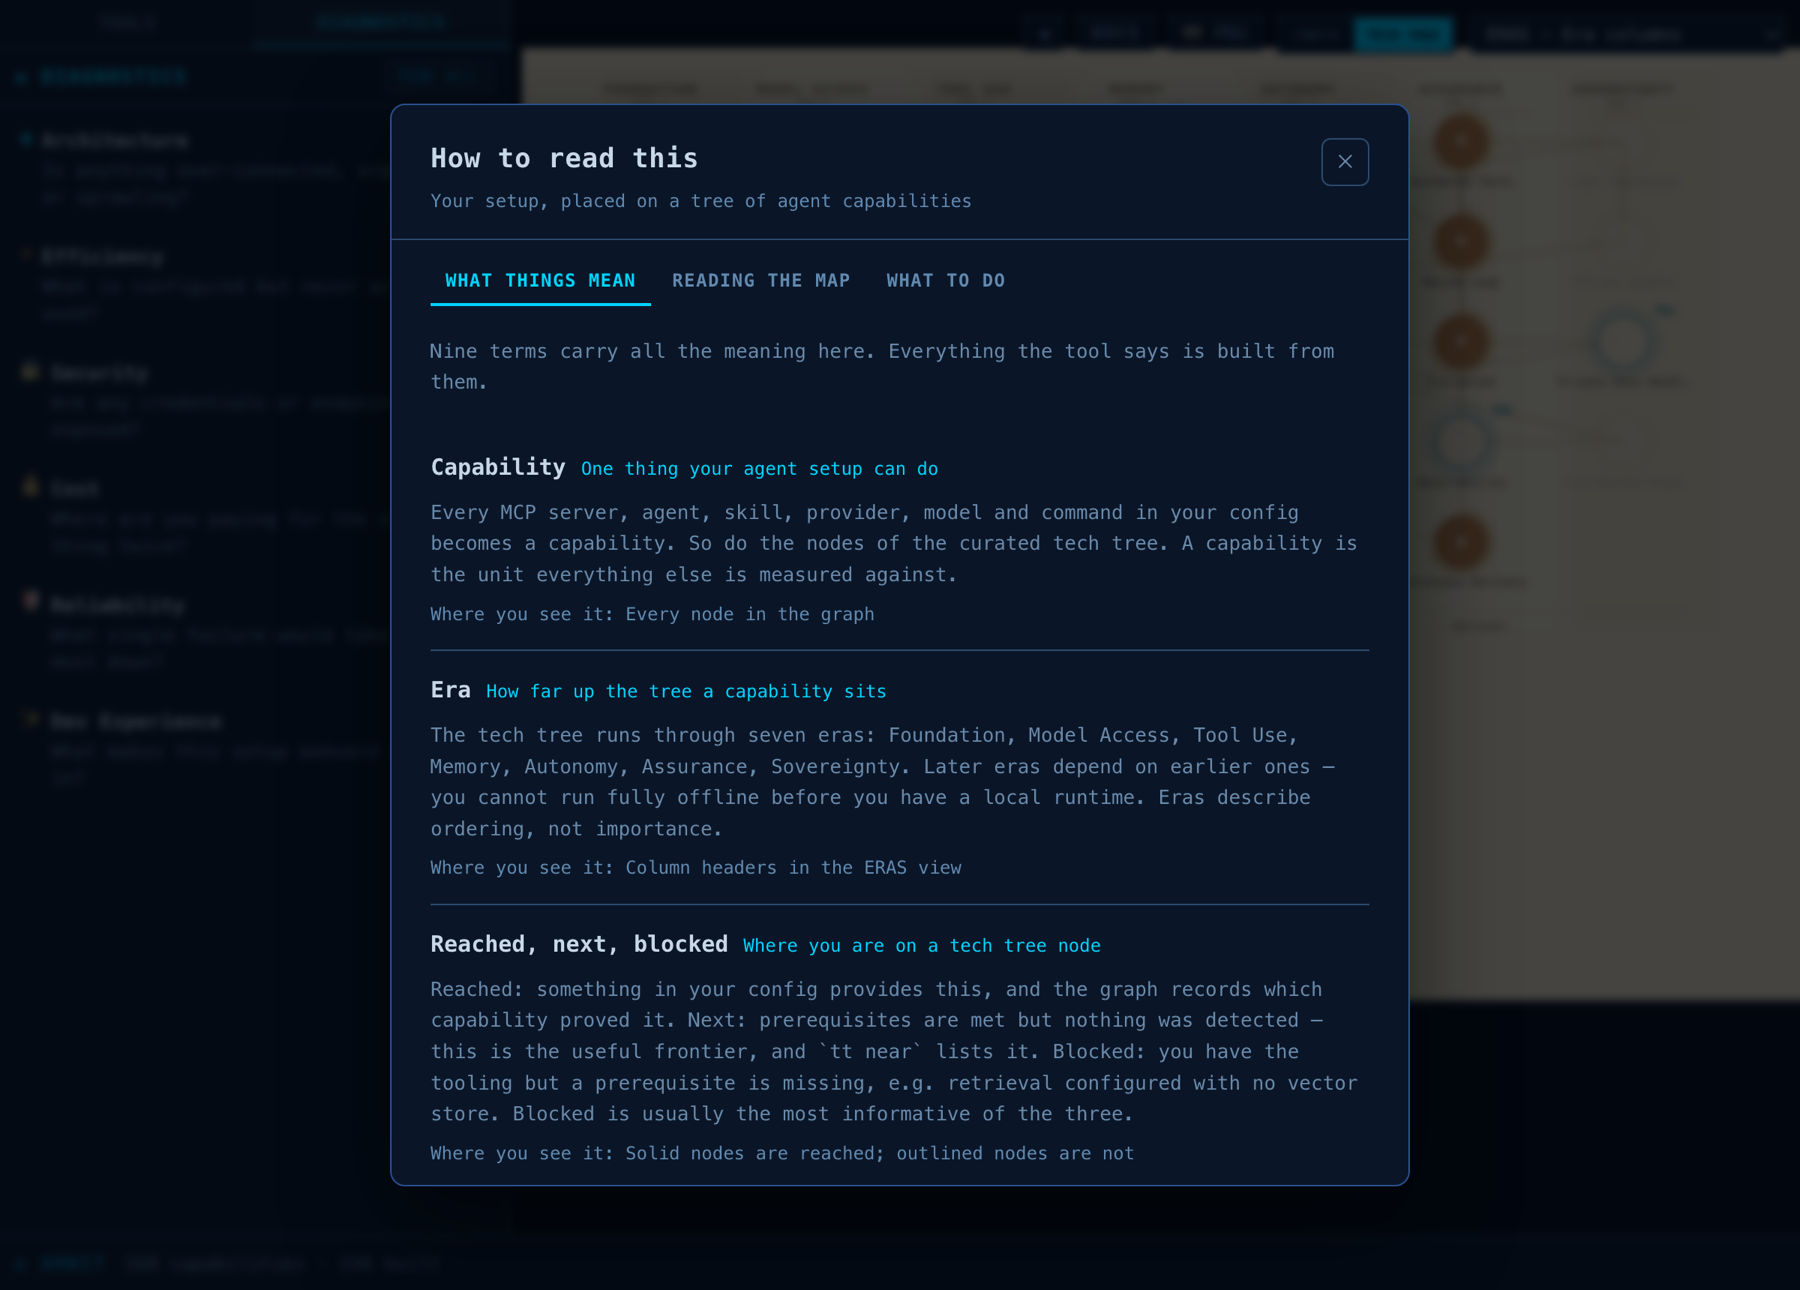
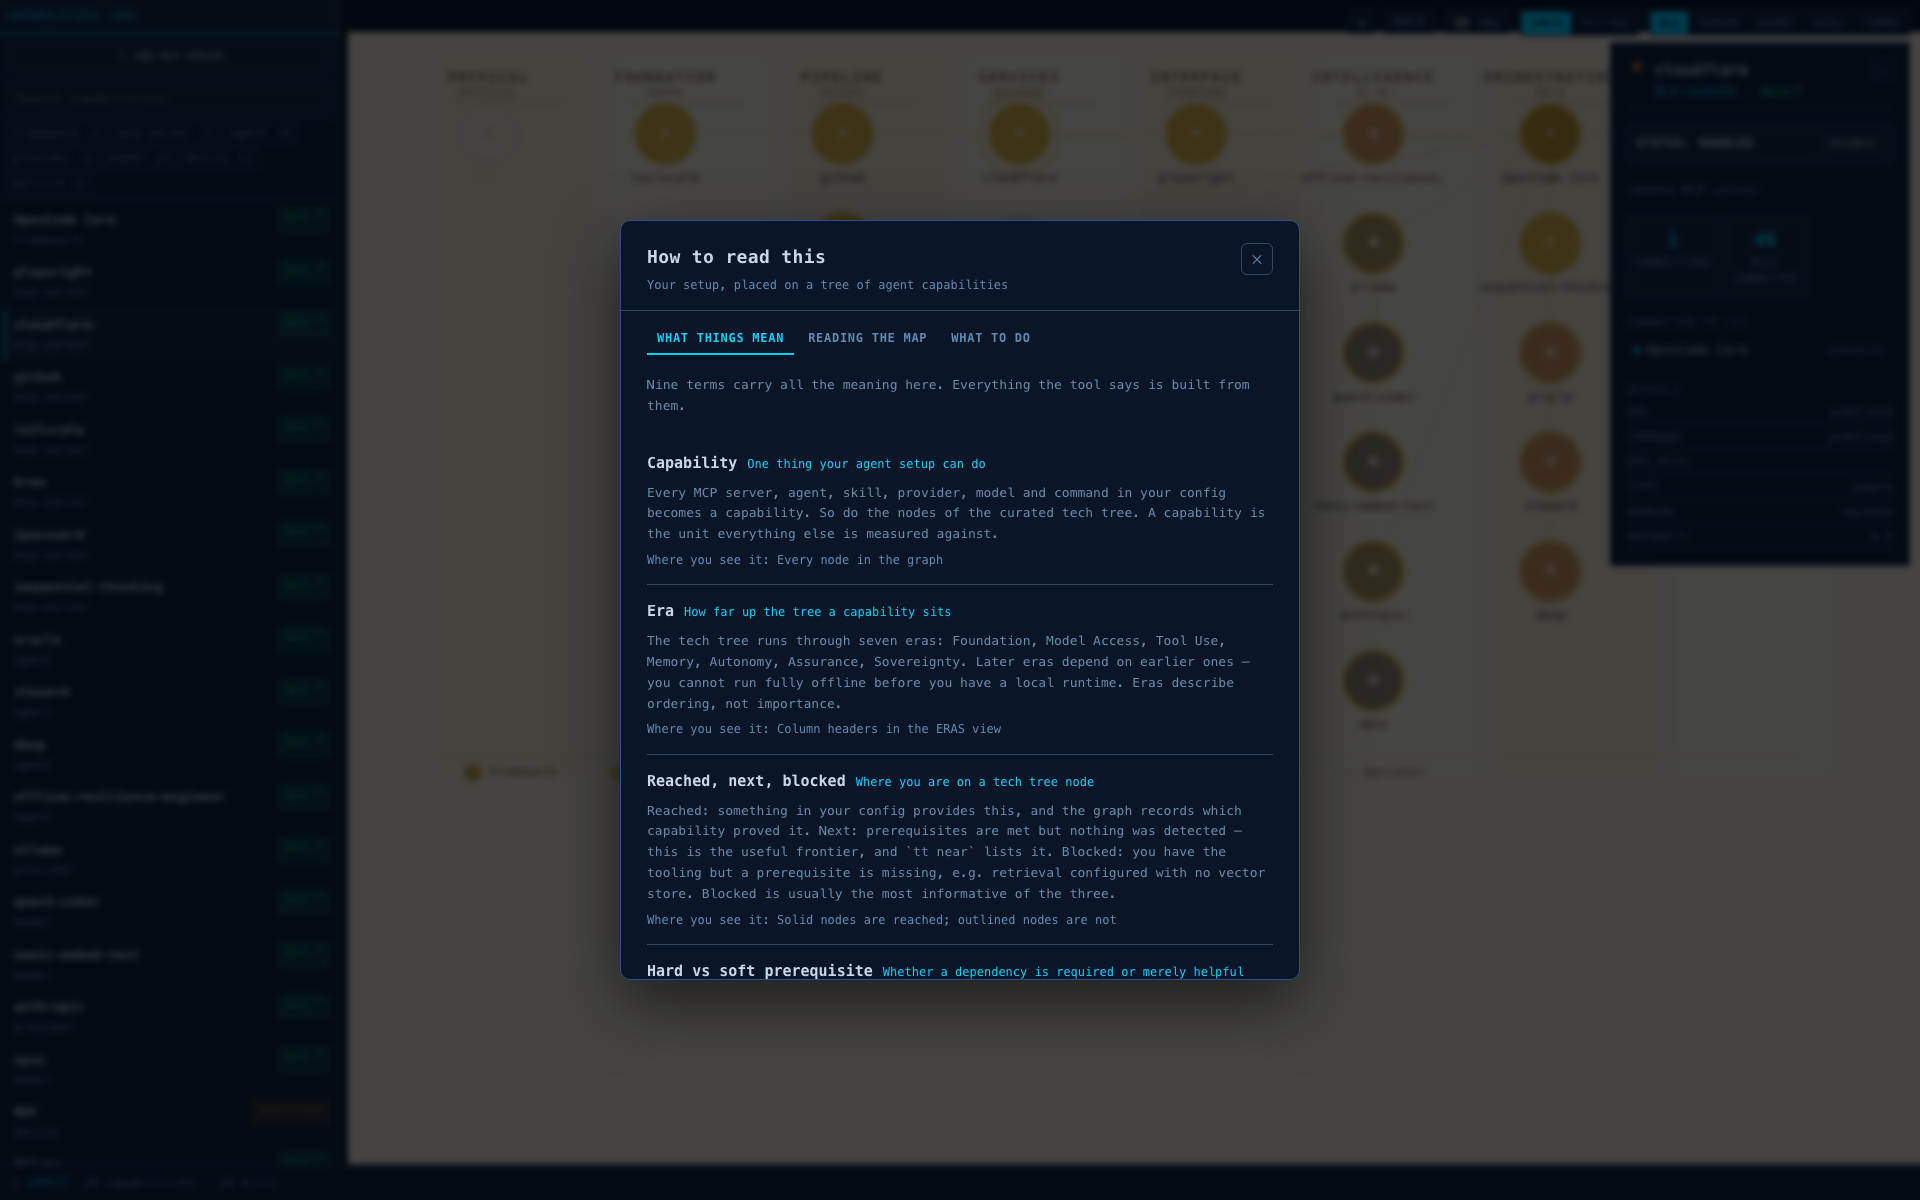
docs: refreshed screen captures and a demo of the loop in motion
The README's screenshots showed the sunset UI — 3D views, the consultant
panel, maturity rings. Regenerated all three from the live app against a
deterministic fixture (7 MCP servers, agents, providers, a human actor):
tree, config, and docs at 1920×1200.

Added a demo GIF in the economic-loop section, captured frame-by-frame via
CDP from the running app: the tree at rest, a capability (Scheduled Work)
becoming reachable as its provider is added, an approval arriving through
the browser broker as the negotiation toast, and the graph settling.

This needed the server to honor OPENCODE_CONFIG for its config path (it
hardcoded HOME, unlike the engine) — a real parity bug, and the change that
made captures deterministic instead of pointing at the developer's own
config.

diff --git a/server.ts b/server.ts
@@ -7,7 +7,7 @@ import { migrate } from './src/engine/migrate.ts';
 import { beginRun, endRun, addEvent, recordUse, recordIntervention, recordResource, recordOutcome } from './src/engine/telemetry.ts';
 import { mintApproval } from './src/engine/approval.ts';
 
-const CONFIG_PATH = Bun.env.HOME + '/.config/opencode/opencode.json';
+const CONFIG_PATH = Bun.env.OPENCODE_CONFIG || Bun.env.HOME + '/.config/opencode/opencode.json';
 const REPO_PATH = Bun.env.REPO_PATH || Bun.env.HOME + '/Documents/GitHub';
 // The graph the engine builds. Its default lives beside the engine (and is what
 // bootstrap.sh writes). Resolved through the shared helper so the engine, the

diff --git a/README.md b/README.md
@@ -429,6 +429,11 @@ real work happens → the ledger observes → attention prices the human burden
 → roi measures before/after and writes the observation back
 ```
 
+<div align="center">
+<img src="docs/assets/capability-graph-demo.gif" alt="The loop in motion: the capability tree at rest, a new capability becoming reachable, an approval arriving as a negotiation toast, and the graph settling with the change in place" width="900">
+<br><sub>The loop in motion — the tree at rest, a capability becoming reachable, an approval toast arriving, the graph settling.</sub>
+</div>
+
 - `ambit attention` prices the human half of the ledger and, critically, **classifies agency**: clerical, exception, physical and authority-as-repeated-gate are reducible — *the human is the duct* — while judgment and knowledge are keepers, never proposed for removal however often they recur.
 - `ambit economics` is the declared model: attention value per hour, purchase and recurring costs, goal values. Dollars declare, cents store. An undeclared actor's attention defaults to $250/hr and is reported as such.
 - `ambit opportunities` ranks the durable fixes — observed middleware burden priced by attention value, acquisition cost, expected effect, payback, confidence (high = observed five-plus times, low = deficits only). Rank by `--by=attention|cash|roi|reliability|frontier`, or allocate a budget: `--budget=N` returns the best combination of investments within $N. Each opportunity carries its acquisition options from the catalog, so it is a purchase decision, not a report.
